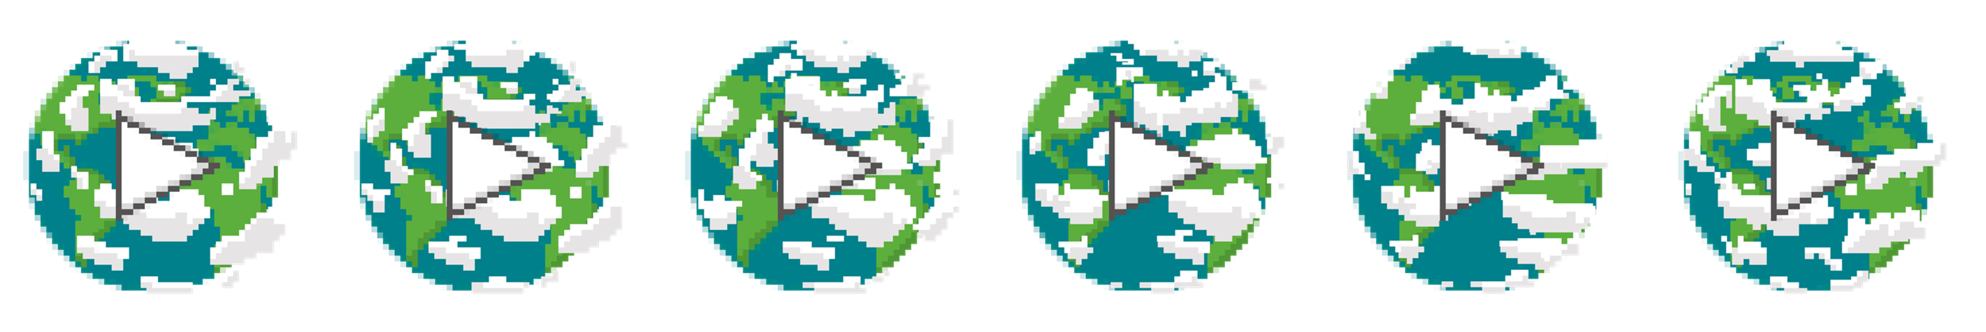
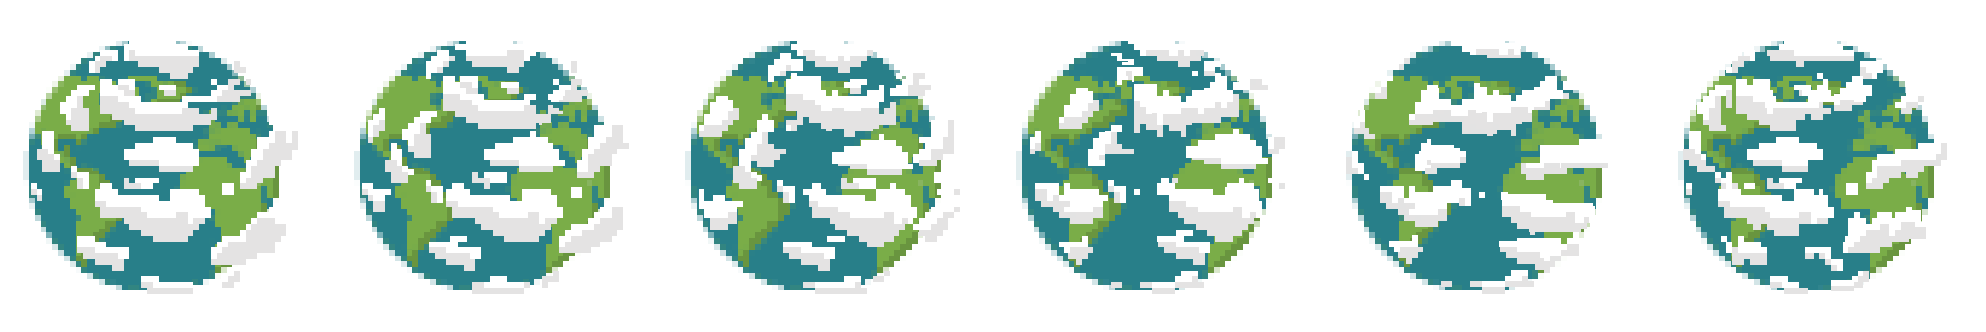
Boton info,cambio assets boton play

Changed region(s): [[0.3434, 0.1205, 0.8117, 0.8735], [0.0, 0.1205, 0.3122, 0.8735], [0.8429, 0.1205, 0.999, 0.8735]]

diff --git a/core/src/mx/itesm/eko/PantallaMenu.java b/core/src/mx/itesm/eko/PantallaMenu.java
@@ -22,7 +22,7 @@ public class PantallaMenu extends PantallaAbstracta
     private final ControlJuego juego;
     private Texture texturaFondo;
     private Texture texturaBtnPlay;
-    private Texture texturaBtnPlayP;
+    private Texture texturaBtnInfo;
 
     // Menu
     private Stage escenaMenu; //botones...
@@ -35,6 +35,7 @@ public class PantallaMenu extends PantallaAbstracta
 
     //Botones
     private BotonDinamico botonPlay;
+    private BotonDinamico botonInfo;
 
     //Sistema de partículas
     private ParticleEffect sistemaParticulas;
@@ -53,15 +54,18 @@ public class PantallaMenu extends PantallaAbstracta
     public void show() {
         texturaFondo=new Texture("Fondos/fondoMenu2.png");
         texturaBtnPlay=new Texture("Botones/btnPlay.png");
-        texturaBtnPlayP=new Texture("Botones/btnPlayP.png");
+        texturaBtnInfo=new Texture("Botones/btnInfoDina.png");
+
         crearBotones();
         crearMenu();
         createParticulas();
     }
 
     private void crearBotones() {
-        botonPlay = new BotonDinamico(texturaBtnPlay,texturaBtnPlayP,332,331,ANCHO/2-(texturaBtnPlay.getHeight()/2)+10,ALTO*0.21f);
+        botonPlay = new BotonDinamico(texturaBtnPlay,texturaBtnPlay,332,331,ANCHO/2-(texturaBtnPlay.getHeight()/2)+10,ALTO*0.21f);
         botonPlay.cargarTexturasBtnPlay();
+        botonInfo = new BotonDinamico(texturaBtnInfo,texturaBtnInfo,201,200,ANCHO*0.7f,ALTO*0.55f);
+        botonInfo.cargarTexturasBtnInfo();
     }
 
     private void createParticulas() {
@@ -105,7 +109,7 @@ public class PantallaMenu extends PantallaAbstracta
 
         //Boton Informacion
         Boton botonInfo=new Boton("Botones/btnInfo.png","Botones/btnInfoP.png");
-        botonInfo.setPosition(ANCHO*0.75f-botonInfo.getWidth()/2,ALTO*0.5f);
+        botonInfo.setPosition(ANCHO*0.7f,ALTO*0.55f);
         botonInfo.getBtn().addListener(new ClickListener() {
             @Override
             public void clicked(InputEvent event, float x, float y) {
@@ -119,7 +123,7 @@ public class PantallaMenu extends PantallaAbstracta
         escenaMenu.addActor(botonInfo.getBtn());
 
         //Boton Scores
-        Boton botonScores=new Boton("Botones/trofeo.png","Botones/trofeoP.png");
+        Boton botonScores=new Boton("Botones/trofeo.png","Botones/trofeo.png");
         botonScores.setPosition(ANCHO*0.18f-botonScores.getWidth()/2,ALTO*0.21f);
         botonScores.getBtn().addListener(new ClickListener() {
             @Override
@@ -150,7 +154,7 @@ public class PantallaMenu extends PantallaAbstracta
         sistemaParticulas.draw(batch);
 
         botonPlay.render(batch);
-
+        botonInfo.render(batch);
 
 
         batch.end();

diff --git a/core/src/mx/itesm/eko/transiciones/FondoDinamico.java b/core/src/mx/itesm/eko/transiciones/FondoDinamico.java
@@ -1,0 +1,4 @@
+package mx.itesm.eko.transiciones;
+
+public class FondoDinamico {
+}
